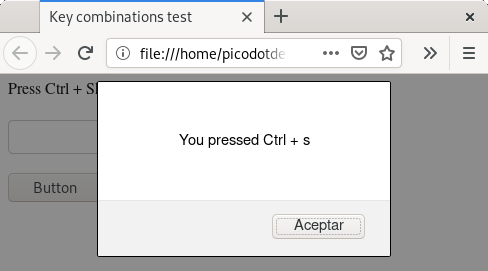
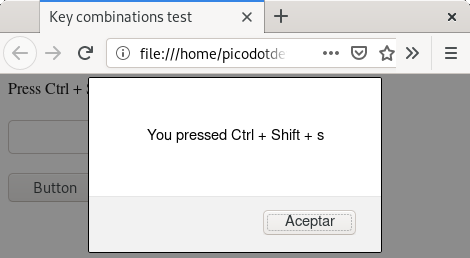
Site update at 2019-05-19T11:40:16+0200

diff --git a/2019/05/combinaciones-de-teclado-en-html-javascript-y-paginas-web/index.html b/2019/05/combinaciones-de-teclado-en-html-javascript-y-paginas-web/index.html
@@ -9,7 +9,7 @@
 <a href=/blog-bitix/pages/links/ class="nav-item nav-link">Enlaces</a>
 <a href=/blog-bitix/pages/about/ class="nav-item nav-link">Acerca de...</a></nav></div></div></header></div></div><div class=row><div class="col-12 text-center"><ins class=adsbygoogle style=display:inline-block;width:970px;height:250px data-ad-client=ca-pub-3533636310991304 data-ad-slot=2975854584 data-type=billboard></ins></div></div><div class=row><div class=col-12><div class="adblock-sidebar adblock-sidebar-right"><div class=adblock-sidebar-container><ins class="adsbygoogle adblock-sidebar-vertical" style=display:block data-ad-client=ca-pub-3533636310991304 data-ad-slot=9933840986 data-ad-format="vertical, rectangle" data-type=auto></ins></div></div><article itemprop=mainEntity itemscope itemtype=http://schema.org/BlogPosting><meta itemprop=inLanguage content=es><meta itemprop=keywords content="javascript, programacion, planeta-codigo"><h1 itemprop=name>Combinaciones de teclado en HTML, JavaScript y páginas web</h1><p class=information>Escrito por
 <span itemprop=author itemscope itemtype=http://schema.org/Person><span itemprop=name>picodotdev</span></span> el <time itemprop=datePublished datetime=2019-05-19>19/05/2019</time>.<br><a href=tags/javascript/>javascript</a> <a href=tags/programacion/>programacion</a> <a href=tags/planeta-codigo/>planeta-codigo</a><br><a href=/blog-bitix/2019/05/combinaciones-de-teclado-en-html-javascript-y-paginas-web/ itemprop=url>Enlace permanente</a>
-<a href=/blog-bitix/2019/05/combinaciones-de-teclado-en-html-javascript-y-paginas-web/#comments>Comentarios</a></p><p class=summary itemprop=about>En las páginas y aplicaciones web también es posible utilizar combinaciones de teclas para proporcionar acceso rápido a funciones usadas frecuentemente. Utilizando la propiedad global <em>accesskey</em> para los campos de texto la acción es ubicar el foco en el campo y para los botones realizar la acción de clic. Los <em>listeners</em> como <em>onkeydown</em> permiten conocer que teclas modificadoras como <kbd>Ctrl</kbd>, <kbd>Shift</kbd> y <kbd>Alt</kbd> se han pulsado al mismo tiempo.</p><div><ins class=adsbygoogle style=display:inline-block;width:728px;height:90px data-ad-client=ca-pub-3533636310991304 data-ad-slot=5966819782 data-type=leaderboard></ins></div><div class=content itemprop=articleBody><meta itemprop=wordCount content=490><div class=logotypes style=float:right><img src=assets/images/logotipos/html.svg class=right width=200 alt=HTML title=HTML></div><div class=logotypes style=float:right;clear:right><img src=assets/images/logotipos/javascript.svg class=right width=200 alt=JavaScript title=JavaScript></div><p>En las aplicaciones de escritorio es habitual usar atajos de teclado o combinaciones de teclas para realizar acciones sin necesidad del ratón y sin requerir levantar las manos del teclado. Estos atajos de teclado permiten ahorrar tiempo al realizar acciones habituales ya que conociendo y usando la combinación de teclas es mucho más rápido que usar el ratón. Los usuarios que trabajan con una aplicación gran cantidad de tiempo les facilita la tarea. En las aplicaciones web ya no es tan habitual encontrar asignaciones de combinación de teclas pero también se pueden emplear y son igual de útiles.</p><p>La forma de utilizar combinaciones de teclas en una página web es haciendo uso de los eventos <em>onKeyDown</em> y <em>onKeyUp</em> o el <a href=https://developer.mozilla.org/en-US/docs/Web/HTML/Global_attributes/accesskey>atributo global <em>accesskey</em></a> que puede ser empleado en cualquier elemento aunque dependiendo del tipo de elemento el comportamiento puede ser distinto. El <em>listener</em> del evento recibe como argumento un objeto que representa el evento, entre la información que contiene está la tecla pulsada y las teclas de control adicionales pulsadas al mismo tiempo.</p><p>En este ejemplo se captura la combinación de teclas <kbd>Ctrl + Shift + s</kbd> a nivel de página que muestra una ventana emergente utilizando la función <em>alert()</em> de JavaScript. El <a href=https://developer.mozilla.org/en-US/docs/Web/API/KeyboardEvent>objeto del evento</a> que se recibe como parámetro del <em>listener</em> posee las propiedades <em>ctrlKey</em>, <em>shiftKey</em> y <em>altKey</em> con las que determinar además de la tecla pulsada las teclas modificadoras adicionales pulsadas al mismo tiempo.</p><div class=code><div class=highlight><div class=chroma><table class=lntable><tr><td class=lntd><pre class=chroma><code class=language-HTML data-lang=HTML><span class=lnt> 1
+<a href=/blog-bitix/2019/05/combinaciones-de-teclado-en-html-javascript-y-paginas-web/#comments>Comentarios</a></p><p class=summary itemprop=about>En las páginas y aplicaciones web también es posible utilizar combinaciones de teclas para proporcionar acceso rápido a funciones usadas frecuentemente. Utilizando la propiedad global <em>accesskey</em> para los campos de texto la acción es ubicar el foco en el campo y para los botones realizar la acción de clic. Los <em>listeners</em> como <em>onkeydown</em> permiten conocer que teclas modificadoras como <kbd>Ctrl</kbd>, <kbd>Shift</kbd> y <kbd>Alt</kbd> se han pulsado al mismo tiempo.</p><div><ins class=adsbygoogle style=display:inline-block;width:728px;height:90px data-ad-client=ca-pub-3533636310991304 data-ad-slot=5966819782 data-type=leaderboard></ins></div><div class=content itemprop=articleBody><meta itemprop=wordCount content=492><div class=logotypes style=float:right><img src=assets/images/logotipos/html.svg class=right width=200 alt=HTML title=HTML></div><div class=logotypes style=float:right;clear:right><img src=assets/images/logotipos/javascript.svg class=right width=200 alt=JavaScript title=JavaScript></div><p>En las aplicaciones de escritorio es habitual usar atajos de teclado o combinaciones de teclas para realizar acciones sin necesidad del ratón y sin requerir levantar las manos del teclado. Estos atajos de teclado permiten ahorrar tiempo al realizar acciones habituales ya que conociendo y usando la combinación de teclas es mucho más rápido que usar el ratón. Los usuarios que trabajan con una aplicación gran cantidad de tiempo les facilita la tarea. En las aplicaciones web ya no es tan habitual encontrar asignaciones de combinación de teclas pero también se pueden emplear y son igual de útiles.</p><p>La forma de utilizar combinaciones de teclas en una página web es haciendo uso de los eventos <em>onKeyDown</em> y <em>onKeyUp</em> o el <a href=https://developer.mozilla.org/en-US/docs/Web/HTML/Global_attributes/accesskey>atributo global <em>accesskey</em></a> que puede ser empleado en cualquier elemento aunque dependiendo del tipo de elemento el comportamiento puede ser distinto. El <em>listener</em> del evento recibe como argumento un objeto que representa el evento, entre la información que contiene está la tecla pulsada y las teclas de control adicionales pulsadas al mismo tiempo.</p><p>En este ejemplo se captura la combinación de teclas <kbd>Ctrl + Shift + s</kbd> a nivel de página que muestra una ventana emergente utilizando la función <em>alert()</em> de JavaScript. El <a href=https://developer.mozilla.org/en-US/docs/Web/API/KeyboardEvent>objeto del evento</a> que se recibe como parámetro del <em>listener</em> posee las propiedades <em>ctrlKey</em>, <em>shiftKey</em> y <em>altKey</em> con las que determinar además de la tecla pulsada las teclas modificadoras adicionales pulsadas al mismo tiempo.</p><div class=code><div class=highlight><div class=chroma><table class=lntable><tr><td class=lntd><pre class=chroma><code class=language-HTML data-lang=HTML><span class=lnt> 1
 </span><span class=lnt> 2
 </span><span class=lnt> 3
 </span><span class=lnt> 4
@@ -43,7 +43,7 @@
     <span class=p>&lt;</span><span class=nt>script</span> <span class=na>type</span><span class=o>=</span><span class=s>&#34;text/javascript&#34;</span><span class=p>&gt;</span>
         <span class=nx>$</span><span class=p>(</span><span class=s1>&#39;body&#39;</span><span class=p>).</span><span class=nx>on</span><span class=p>(</span><span class=s2>&#34;keydown&#34;</span><span class=p>,</span> <span class=kd>function</span><span class=p>(</span><span class=nx>e</span><span class=p>)</span> <span class=p>{</span> 
             <span class=k>if</span> <span class=p>(</span><span class=nx>e</span><span class=p>.</span><span class=nx>ctrlKey</span> <span class=o>&amp;&amp;</span> <span class=nx>e</span><span class=p>.</span><span class=nx>shiftKey</span> <span class=o>&amp;&amp;</span> <span class=nx>e</span><span class=p>.</span><span class=nx>which</span> <span class=o>===</span> <span class=mi>83</span><span class=p>)</span> <span class=p>{</span>
-                <span class=nx>alert</span><span class=p>(</span><span class=s2>&#34;You pressed Ctrl + s&#34;</span><span class=p>);</span>
+                <span class=nx>alert</span><span class=p>(</span><span class=s2>&#34;You pressed Ctrl + Shift + s&#34;</span><span class=p>);</span>
                 <span class=nx>e</span><span class=p>.</span><span class=nx>preventDefault</span><span class=p>();</span>
             <span class=p>}</span>
         <span class=p>});</span>
@@ -53,7 +53,7 @@
     <span class=p>&lt;/</span><span class=nt>script</span><span class=p>&gt;</span>
 <span class=p>&lt;/</span><span class=nt>body</span><span class=p>&gt;</span>
 <span class=p>&lt;/</span><span class=nt>html</span><span class=p>&gt;</span></code></pre></td></tr></table></div></div><div class=highlight-meta><span class=raw><a href target=_blank>view raw</a></span>
-<a href target=_blank>HtmlKeyCombinations.html</a></div></div><div class=media style=text-align:center><figure><a href=/blog-bitix/2019/05/combinaciones-de-teclado-en-html-javascript-y-paginas-web/images/key-combinations-1_hucdbf9b80216b5889f92e6ea3089b108a_13920_2560x1440_fit_box_2.png title="Ejemplo combinaciones de teclas" data-gallery><img src=/blog-bitix/2019/05/combinaciones-de-teclado-en-html-javascript-y-paginas-web/images/key-combinations-1_hucdbf9b80216b5889f92e6ea3089b108a_13920_300x200_fit_box_2.png width=300></a><figcaption>Ejemplo combinaciones de teclas</figcaption></figure></div><p>Los usos que se les pueden dar a estas combinaciones de teclas van desde posicionar el foco en un determinado campo de entrada o realizar alguna acción como enviar los datos de un formulario una vez están rellenados y son válidos o cualquiera otra acción mediante <a href=https://es.wikipedia.org/wiki/JavaScript>JavaScript</a>. Haciendo uso del método <a href=https://developer.mozilla.org/en-US/docs/Web/API/Event/preventDefault>preventDefault()</a> del objeto evento se evita que el evento dispare la acción por defecto si tiene una asignada.</p><p>La propiedad global <em>accesskey</em> puede utilizarse en cualquier elemento de HTML, en el ejemplo en un elemento de formulario <em>input</em> y en un botón. En <a href=https://www.mozilla.org/es-ES/firefox/new/>Firefox</a> y <a href=https://www.gnu.org/>GNU</a>/<a href=https://www.linux.com/>Linux</a> la combinación de teclas es <kbd>Alt + Shift + [key]</kbd>, para el campo de texto la combinación es <kbd>Alt + Shift + t</kbd> y para el botón <kbd>Alt + Shift + b</kbd>, en el botón la acción es ubicar el foco de entrada en el campo de texto y para el botón realizar la acción clic.</p><div class=media style=text-align:center><figure><a href=/blog-bitix/2019/05/combinaciones-de-teclado-en-html-javascript-y-paginas-web/images/key-combinations-2_hu8001d68522f07446b45c26777190b519_17648_2560x1440_fit_box_2.png title="Captura de Ctrl &#43; Shift &#43; s" data-gallery><img src=/blog-bitix/2019/05/combinaciones-de-teclado-en-html-javascript-y-paginas-web/images/key-combinations-2_hu8001d68522f07446b45c26777190b519_17648_200x150_fit_box_2.png width=200></a>
+<a href target=_blank>HtmlKeyCombinations.html</a></div></div><div class=media style=text-align:center><figure><a href=/blog-bitix/2019/05/combinaciones-de-teclado-en-html-javascript-y-paginas-web/images/key-combinations-1_hucdbf9b80216b5889f92e6ea3089b108a_13920_2560x1440_fit_box_2.png title="Ejemplo combinaciones de teclas" data-gallery><img src=/blog-bitix/2019/05/combinaciones-de-teclado-en-html-javascript-y-paginas-web/images/key-combinations-1_hucdbf9b80216b5889f92e6ea3089b108a_13920_300x200_fit_box_2.png width=300></a><figcaption>Ejemplo combinaciones de teclas</figcaption></figure></div><p>Los usos que se les pueden dar a estas combinaciones de teclas van desde posicionar el foco en un determinado campo de entrada o realizar alguna acción como enviar los datos de un formulario una vez están rellenados y son válidos o cualquiera otra acción mediante <a href=https://es.wikipedia.org/wiki/JavaScript>JavaScript</a>. Haciendo uso del método <a href=https://developer.mozilla.org/en-US/docs/Web/API/Event/preventDefault>preventDefault()</a> del objeto evento se evita que el evento dispare la acción por defecto si tiene una asignada.</p><p>La propiedad global <em>accesskey</em> puede utilizarse en cualquier elemento de HTML, en el ejemplo en un elemento de formulario <em>input</em> y en un botón. En <a href=https://www.mozilla.org/es-ES/firefox/new/>Firefox</a> y <a href=https://www.gnu.org/>GNU</a>/<a href=https://www.linux.com/>Linux</a> la combinación de teclas es <kbd>Alt + Shift + [key]</kbd>, para el campo de texto la combinación es <kbd>Alt + Shift + t</kbd> y para el botón <kbd>Alt + Shift + b</kbd>, en el botón la acción es ubicar el foco de entrada en el campo de texto y para el botón realizar la acción clic.</p><div class=media style=text-align:center><figure><a href=/blog-bitix/2019/05/combinaciones-de-teclado-en-html-javascript-y-paginas-web/images/key-combinations-2_hucb0a71650a1fecca4774a5fbc5f53aea_17644_2560x1440_fit_box_2.png title="Captura de Ctrl &#43; Shift &#43; s" data-gallery><img src=/blog-bitix/2019/05/combinaciones-de-teclado-en-html-javascript-y-paginas-web/images/key-combinations-2_hucb0a71650a1fecca4774a5fbc5f53aea_17644_200x150_fit_box_2.png width=200></a>
 <a href=/blog-bitix/2019/05/combinaciones-de-teclado-en-html-javascript-y-paginas-web/images/key-combinations-3_hu8f2ee8de5de0b6cc5962cdd220a09655_14112_2560x1440_fit_box_2.png title="Captura de Alt &#43; Shift &#43; t, ubica el foco en el campo de texto" data-gallery><img src=/blog-bitix/2019/05/combinaciones-de-teclado-en-html-javascript-y-paginas-web/images/key-combinations-3_hu8f2ee8de5de0b6cc5962cdd220a09655_14112_200x150_fit_box_2.png width=200></a>
 <a href=/blog-bitix/2019/05/combinaciones-de-teclado-en-html-javascript-y-paginas-web/images/key-combinations-4_hu28de0382bc89a65a2ee12340ecc6d3a9_17581_2560x1440_fit_box_2.png title="Captura de Alt &#43; Shift &#43; b, ejecuta la acción clic del botón" data-gallery><img src=/blog-bitix/2019/05/combinaciones-de-teclado-en-html-javascript-y-paginas-web/images/key-combinations-4_hu28de0382bc89a65a2ee12340ecc6d3a9_17581_200x150_fit_box_2.png width=200></a><figcaption>Acciones con combinaciones de teclas</figcaption></figure></div><div class=reference>Referencia:<br><ul><li>[Atributos globales][<a href=https://developer.mozilla.org/en-US/docs/Web/HTML/Global_attributes>https://developer.mozilla.org/en-US/docs/Web/HTML/Global_attributes</a>]</li><li><a href=https://picodotdev.github.io/blog-bitix/2016/12/introduccion-al-javascript-de-ecmascript-6/>Introducción al JavaScript de ECMAScript 6</a></li></ul></div></div></article><div class="row related"><div class=col-md-12>Artículos relacionados:<ul><li><a href=/blog-bitix/2018/06/soporte-para-lanzar-eventos-desde-javascript-con-ajax-en-un-componente-de-apache-tapestry/>Soporte para lanzar eventos desde JavaScript con Ajax en un componente de Apache Tapestry</a></li><li><a href=/blog-bitix/2018/05/depurar-codigo-javascript-con-la-instruccion-debugger/>Depurar código JavaScript con la instrucción debugger</a></li><li><a href=/blog-bitix/2016/12/transpiling-de-ecmascript-6-a-5-uglify-y-eslint-con-gulp/>Transpiling de ECMAScript 6 a 5, Uglify y ESLint con Gulp</a></li><li><a href=/blog-bitix/2016/12/introduccion-al-javascript-de-ecmascript-6/>Introducción al JavaScript de ECMAScript 6</a></li><li><a href=/blog-bitix/2016/11/usar-una-imagen-de-fondo-aleatoria-al-cargar-una-pagina-web/>Usar una imagen de fondo aleatoria al cargar una página web</a></li></ul></div></div><div class=row><div class=col-md-12><div class=sharethis-inline-share-buttons></div></div></div><div class=row><div class="col-12 text-center"><ins class=adsbygoogle style=display:inline-block;width:970px;height:250px data-ad-client=ca-pub-3533636310991304 data-ad-slot=2975854584 data-type=billboard></ins></div></div><a id=comments></a><div class=row><div class=col-md-12><div id=disqus_thread></div></div></div><script type=text/javascript async>var disqus_shortname='blog-bitix';var disqus_identifier='https:\/\/picodotdev.github.io\/blog-bitix\/2019\/05\/combinaciones-de-teclado-en-html-javascript-y-paginas-web\/';var disqus_url='https:\/\/picodotdev.github.io\/blog-bitix\/2019\/05\/combinaciones-de-teclado-en-html-javascript-y-paginas-web\/';var disqus_script='embed.js';(function(){var dsq=document.createElement('script');dsq.type='text/javascript';dsq.async=true;dsq.src='//'+disqus_shortname+'.disqus.com/'+disqus_script;(document.getElementsByTagName('head')[0]||document.getElementsByTagName('body')[0]).appendChild(dsq);}());</script></div></div><div class=row><div class=col-12><hr></div></div><footer><div class=row><div class="col-12 col-sm-4"><p><strong>Blog Bitix</strong></p><p>Blog dedicado a la distribución GNU/Linux que uso habitualmente, Arch Linux, a mis andanzas alrededor del software libre, la programación y a otros temas relacionados con la tecnología y la informática.</p><p>Publicando de uno a tres artículos únicos a la semana desde el año 2010.</p></div><div class="col-12 col-sm-4 text-center menu"><ul class=list-unstyled><li><a href=/blog-bitix/tags/java/>Java</a></li><li><a href=/blog-bitix/tags/gnu-linux/>GNU/Linux</a></li><li><a href=/blog-bitix/tags/javascript/>JavaScript</a></li><li><a href=/blog-bitix/tags/tapestry/>Tapestry</a></li><li><a href=/blog-bitix/archive/>Archivo y hemeroteca</a></li><li><a href=/blog-bitix/pages/links/>Enlaces</a></li><li><a href=/blog-bitix/pages/advertising/>Publicidad</a></li><li><a href=/blog-bitix/pages/donate/>Donaciones</a></li><li><a href=/blog-bitix/pages/about/>Acerca de...</a></li></ul></div><div class="col-12 col-sm-4 text-center links"><a href=index.xml title="¡Suscríbete a Blog Bitix!"><img src=assets/images/rss.png class=icon></a>
 <a href=https://twitter.com/picodotdev/ title="¡Sígueme en twitter!"><img src=assets/images/twitter.svg class=icon></a>
